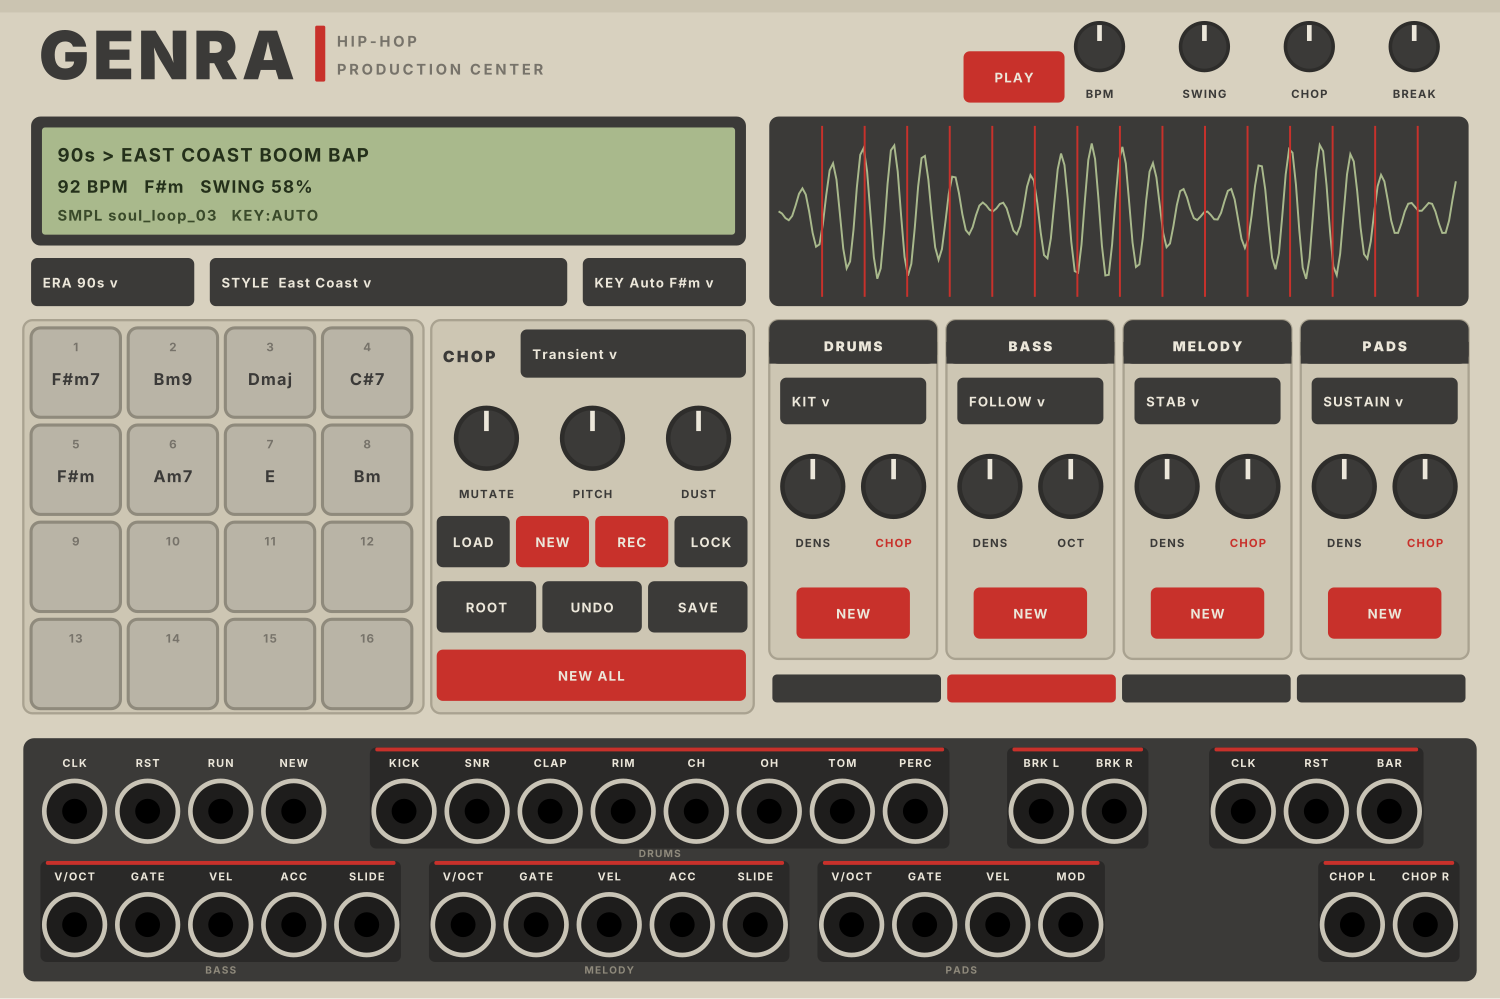
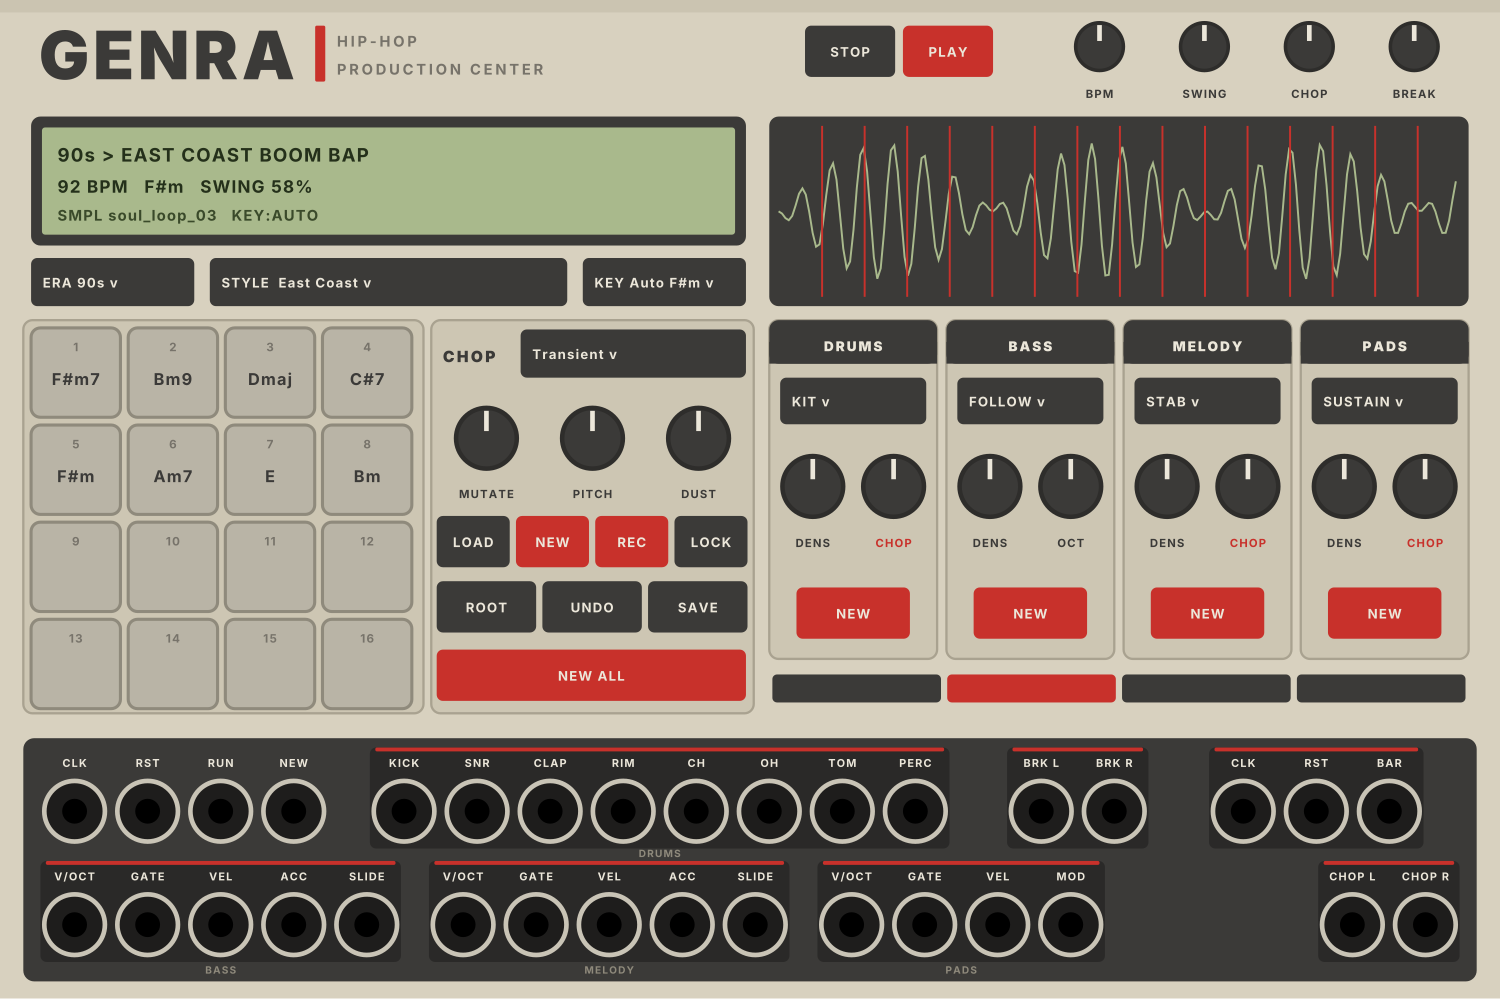
GENRA HipHop 2.0.2: STOP-Taster, Bass mit Dichte-Schicht, Laden per Klick
Transport: STOP hält an und springt auf Takt 1 (zweimal schneidet auch
Chops und Break ab), PLAY startet bei Takt 1. Bass: mindestens zwei
Grundtöne pro Takt, DENS bringt Vorschläge, Oktavsprünge, Läufe und
Ghosts, Grundtöne klingen bis zum nächsten. Leeres Display: Klick lädt.

Claude-Session: https://claude.ai/code/session_01ETAzGwxdvUU37G8dEZptyf

Changed region(s): [[0.5213, 0.0, 0.736, 0.1241]]

diff --git a/genra-hiphop/src/HipHop.cpp b/genra-hiphop/src/HipHop.cpp
@@ -256,7 +256,8 @@ struct GenraHipHop : Module {
 
 	// ---- from the panel (UI thread) to the audio thread
 	std::atomic<int> reqNew{0};       // bit per track, bit 5: all
-	std::atomic<bool> reqUndo{false}, reqStyle{false}, reqRender{false};
+	std::atomic<bool> reqUndo{false}, reqStyle{false}, reqRender{false}, reqKill{false};
+	bool wasRunning = false;
 	std::atomic<int> padQ[32];
 	std::atomic<int> padQw{0};
 	int padQr = 0;
@@ -608,13 +609,23 @@ struct GenraHipHop : Module {
 			else
 				phase = 1.f;
 		}
-		if (!run && step.load() >= 0 && !inputs[CLK_INPUT].isConnected()) {
-			// stopped: let the gates go
+		if (wasRunning && !run) {
+			// stopped: the gates go, back to bar 1 (PLAY starts there)
 			bassGate.left = melGate.left = 0;
 			for (Gate& g : padGate)
 				g.left = 0;
+			for (Gate& g : drumGate)
+				g.left = 0;
 			nPend = 0;
 			step = -1;
+			phase = 1.f;
+		}
+		wasRunning = run;
+		if (reqKill.exchange(false)) {
+			for (SVoice& v : cv)
+				v.release(sr);
+			for (SVoice& v : bv)
+				v.release(sr);
 		}
 		if (tickNow) {
 			int s = (step.load() + 1) % LEN;
@@ -1065,6 +1076,7 @@ struct HHButton : widget::OpaqueWidget {
 	NVGcolor col = C_GRAPH;
 	std::function<void()> act, release;
 	std::function<bool()> lit;
+	int symbol = 0; // 1 play triangle, 2 stop square (before the text)
 	bool down = false;
 	void draw(const DrawArgs& args) override {
 		bool on = lit && lit();
@@ -1082,7 +1094,27 @@ struct HHButton : widget::OpaqueWidget {
 			nvgStrokeWidth(args.vg, 1.6f);
 			nvgStroke(args.vg);
 		}
-		label(args.vg, uiBold(), box.size.x / 2, box.size.y / 2 + 0.5f, text, 9.5f, C_CREAM);
+		float tx = box.size.x / 2;
+		if (symbol) {
+			nvgFontFaceId(args.vg, uiBold()->handle);
+			nvgFontSize(args.vg, 9.5f);
+			nvgTextLetterSpacing(args.vg, 0.4f);
+			float tw = nvgTextBounds(args.vg, 0, 0, text.c_str(), NULL, NULL);
+			float x0 = (box.size.x - tw - 9.f) / 2, y = box.size.y / 2;
+			nvgBeginPath(args.vg);
+			if (symbol == 1) {
+				nvgMoveTo(args.vg, x0, y - 3.2f);
+				nvgLineTo(args.vg, x0 + 5.5f, y);
+				nvgLineTo(args.vg, x0, y + 3.2f);
+				nvgClosePath(args.vg);
+			}
+			else
+				nvgRect(args.vg, x0, y - 2.7f, 5.4f, 5.4f);
+			nvgFillColor(args.vg, C_CREAM);
+			nvgFill(args.vg);
+			tx = x0 + 9.f + tw / 2;
+		}
+		label(args.vg, uiBold(), tx, box.size.y / 2 + 0.5f, text, 9.5f, C_CREAM);
 	}
 	void onButton(const ButtonEvent& e) override {
 		if (e.button == GLFW_MOUSE_BUTTON_LEFT && e.action == GLFW_PRESS) {
@@ -1286,14 +1318,21 @@ struct HHLcd : widget::Widget {
 	}
 };
 
-struct HHWave : widget::Widget {
+struct HHWave : widget::OpaqueWidget {
 	GenraHipHop* module = nullptr;
+	void onButton(const ButtonEvent& e) override {
+		if (module && e.button == GLFW_MOUSE_BUTTON_LEFT && e.action == GLFW_PRESS && !module->uiChops.load() &&
+		    !module->loader->busy) {
+			module->loadSample();
+			e.consume(this);
+		}
+	}
 	void draw(const DrawArgs& args) override {
 		NVGcontext* vg = args.vg;
 		const ChopSet* c = module ? module->uiChops.load() : nullptr;
 		float w = box.size.x, h = box.size.y;
 		if (!c || c->peaks.empty()) {
-			label(vg, uiBold(), w / 2, h / 2, module && module->loader->busy ? "ANALYSING..." : "LOAD A WAV (LOAD BUTTON)", 9.f,
+			label(vg, uiBold(), w / 2, h / 2, module && module->loader->busy ? "ANALYSING..." : "CLICK HERE OR PRESS LOAD", 9.f,
 			      nvgRGB(0x8f, 0x8a, 0x7c));
 			return;
 		}
@@ -1341,6 +1380,7 @@ struct HHBars : widget::Widget {
 };
 
 struct GenraHipHopWidget : ModuleWidget {
+	float lastStop = -10.f;
 	std::string note; // last export message
 	float noteTime = 0.f;
 
@@ -1364,10 +1404,21 @@ struct GenraHipHopWidget : ModuleWidget {
 		setPanel(createPanel(asset::plugin(pluginInstance, "res/HipHop.svg")));
 		using M = GenraHipHop;
 		// header
+		HHButton* stop = button(hhl::STOP, "STOP", C_GRAPH, [=]() {
+			if (!m)
+				return;
+			float now = (float) system::getTime();
+			if (!m->running && now - lastStop < 0.5f)
+				m->reqKill = true; // twice: cut the chops and the break too
+			m->running = false;
+			lastStop = now;
+		});
+		stop->symbol = 2;
 		HHButton* play = button(hhl::PLAY, "PLAY", C_RED, [=]() {
 			if (m)
-				m->running = !m->running;
+				m->running = true;
 		});
+		play->symbol = 1;
 		play->lit = [=]() { return m && m->running; };
 		addParam(createParamCentered<HHKnobSmall>(Vec(hhl::BPM[0], hhl::BPM[1]), m, M::BPM_PARAM));
 		addParam(createParamCentered<HHKnobSmall>(Vec(hhl::SWING[0], hhl::SWING[1]), m, M::SWING_PARAM));

diff --git a/genra-hiphop/src/hh/Core.cpp b/genra-hiphop/src/hh/Core.cpp
@@ -288,6 +288,90 @@ static int bassNote(int pc) {
 	return n;
 }
 
+/** What DENS brings to the bass, and how long its notes ring.
+ *  - at least two notes per bar (none of the bars stays almost empty)
+ *  - extras with graded priority: a push before the snare (0.3-0.45), octave jumps (0.5-0.65),
+ *    walk-ups into the next chord (0.6-0.75), 16th ghosts (0.8-0.95)
+ *  - the core notes ring up to the next core note (Premier-style East Coast stays short) */
+static void bassLayer(Pattern& p, const Style& st, const Settings& set, const SampleInfo& si, const PadSet* pads,
+                      Rng& rng, int mode, int scale) {
+	auto empty = [&](int s) { return s >= 0 && s < LEN && p.bass[s].pitch < 0; };
+	auto rootAt = [&](int s) {
+		Chord c = chordAt(p, si, pads, s);
+		if (!c.valid())
+			c = p.bar[s / STEPS];
+		return bassNote(c.root);
+	};
+	// at least two core notes per bar
+	for (int b = 0; b < BARS; b++) {
+		int core = 0;
+		for (int i = 0; i < STEPS; i++)
+			core += p.bass[b * STEPS + i].pitch >= 0 && p.bass[b * STEPS + i].prio == 0.f;
+		static const int FILL[] = {8, 10, 6, 12};
+		for (int k = 0; k < 4 && core < 2; k++) {
+			int s = b * STEPS + FILL[k];
+			if (empty(s)) {
+				addNote(p.bass, s, rootAt(s) + (rng.chance(0.3f) ? 7 : 0), 1.f, 0.8f, 0.f);
+				core++;
+			}
+		}
+	}
+	// the extras, the same in every bar (a groove), bar 4 gets its own walk-up
+	int push = rng.chance(0.5f) ? 7 : 11; // the 16th before a snare / the "a" of 3
+	float pushPrio = rng.range(0.3f, 0.45f);
+	int jump = 1 + rng.below(3);
+	float jumpPrio = rng.range(0.5f, 0.65f);
+	for (int b = 0; b < BARS; b++) {
+		int s0 = b * STEPS;
+		if (empty(s0 + push))
+			addNote(p.bass, s0 + push, rootAt(s0 + push) + (rng.chance(0.4f) ? 7 : 0), 0.9f, 0.7f, pushPrio);
+		if (p.bass[s0].pitch >= 0 && empty(s0 + jump * 2)) {
+			addNote(p.bass, s0 + jump * 2, p.bass[s0].pitch + 12, 0.8f, 0.65f, jumpPrio);
+			if (mode == BM_808)
+				p.bass[s0 + jump * 2].slide = rng.chance(0.5f);
+		}
+		// walk-up into the next bar's chord (bars 2 and 4, with DENS)
+		if (b % 2 == 1) {
+			int target = rootAt((s0 + STEPS) % LEN);
+			for (int k = 0; k < 3; k++) {
+				int s = s0 + 13 + k;
+				if (!empty(s))
+					continue;
+				int n = snapScale(target - (3 - k) * 2, scale, set.key.root);
+				addNote(p.bass, s, n, 0.8f, 0.6f, 0.6f + 0.05f * k);
+			}
+		}
+		// 16th ghosts on the empty 8ths
+		for (int i = 2; i < STEPS; i += 2) {
+			int s = s0 + i;
+			if (empty(s) && empty(s - 1) && rng.chance(0.5f)) {
+				int prev = s - 1;
+				while (prev > s0 && p.bass[prev].pitch < 0)
+					prev--;
+				int n = p.bass[prev].pitch >= 0 ? p.bass[prev].pitch : rootAt(s);
+				addNote(p.bass, s, n + (rng.chance(0.3f) ? 12 : 0), 0.6f, 0.5f, rng.range(0.8f, 0.95f));
+			}
+		}
+	}
+	// how long the core notes ring: up to the next core note
+	bool shortStyle = st.bass == BM_ROOTS && st.chopLoop < 0.4f; // East Coast: short and punchy
+	for (int s = 0; s < LEN; s++) {
+		Note& n = p.bass[s];
+		if (n.pitch < 0 || n.prio > 0.f)
+			continue;
+		int nx = s + 1;
+		while (nx < s + STEPS && (p.bass[nx % LEN].pitch < 0 || p.bass[nx % LEN].prio > 0.f))
+			nx++;
+		float gap = (float) (nx - s);
+		if (mode == BM_808)
+			n.len = std::max(n.len, std::min(gap, 8.f) - 0.2f);
+		else if (shortStyle)
+			n.len = std::min(gap, 2.f) - 0.15f;
+		else
+			n.len = std::min(gap, 6.f) - 0.25f;
+	}
+}
+
 static void genBass(Pattern& p, const Style& st, const Settings& set, const SampleInfo& si, const PadSet* pads,
                     Rng& rng) {
 	for (int s = 0; s < LEN; s++)
@@ -401,6 +485,8 @@ static void genBass(Pattern& p, const Style& st, const Settings& set, const Samp
 					p.bass[s].slide = true;
 			}
 	}
+	if (mode != BM_WALK)
+		bassLayer(p, st, set, si, pads, rng, mode, scale);
 }
 
 // ---------------------------------------------------------------- melody

diff --git a/genra-hiphop/tools/hiphop_panel.py b/genra-hiphop/tools/hiphop_panel.py
@@ -89,7 +89,8 @@ rect(bx, 3.3, 1.3, 7.2, RED, 0.2)
 text(bx + 2.8, 6.0, "HIP-HOP", 1.9, INK_DIM, 700, "start", 0.35)
 text(bx + 2.8, 9.6, "PRODUCTION CENTER", 1.9, INK_DIM, 700, "start", 0.35)
 # PLAY and the four header knobs
-comp("PLAY", 124.0, 6.6, 13.0, 6.6)
+comp("STOP", 103.6, 3.3, 11.6, 6.6)
+comp("PLAY", 116.2, 3.3, 11.6, 6.6)
 for name, x, label in (("BPM", 141.5, "BPM"), ("SWING", 155.0, "SWING"), ("VOL", 168.5, "CHOP"), ("BRK", 182.0, "BREAK")):
     comp(name, x, 6.0)
     text(x, 12.6, label, 1.45, INK, 700)
@@ -253,7 +254,7 @@ print(f"res/HipHop.svg: {HP} HP, {len(comps)} parts")
 if "--preview" in sys.argv:
     out.clear()
     LABELS = {"LOAD": "LOAD", "NEW": "NEW", "REC": "REC", "LOCK": "LOCK", "ROOT": "ROOT", "UNDO": "UNDO", "SAVE": "SAVE",
-              "NEWALL": "NEW ALL", "PLAY": "PLAY"}
+              "NEWALL": "NEW ALL", "PLAY": "PLAY", "STOP": "STOP"}
     CHORDS = ["F#m7", "Bm9", "Dmaj", "C#7", "F#m", "Am7", "E", "Bm"]
     for k, v in comps.items():
         if len(v) == 2:

diff --git a/genra-hiphop/src/HipHopLayout.hpp b/genra-hiphop/src/HipHopLayout.hpp
@@ -2,7 +2,8 @@
 #pragma once
 namespace hhl {
 static const float W = 570.000f;
-static const float PLAY[4] = {366.142f, 19.488f, 38.386f, 19.488f};
+static const float STOP[4] = {305.906f, 9.744f, 34.252f, 19.488f};
+static const float PLAY[4] = {343.110f, 9.744f, 34.252f, 19.488f};
 static const float BPM[2] = {417.815f, 17.717f};
 static const float SWING[2] = {457.677f, 17.717f};
 static const float VOL[2] = {497.539f, 17.717f};

diff --git a/genra-hiphop/README.md b/genra-hiphop/README.md
@@ -2,7 +2,7 @@
 
 Ein Hip-Hop-Beat-Generator im Look einer alten Production Center (beiges Gehäuse, graue Pads, Akai-Rot, grünes LCD).
 Eigenes Plugin (**GENRA HipHop**, Slug `GenraHipHop`) unter der Marke **Genra**, liegt im Repo von GENRA Test im
-Unterordner `genra-hiphop/`. Stand 2.0.1: Hauptordner fürs Laden, Drag & Drop, Lade-Schritte im Display und in `log.txt`.
+Unterordner `genra-hiphop/`. Stand 2.0.2: Transport mit STOP, Bass mit echter Dichte-Schicht, Laden per Klick aufs leere Display.
 
 ![Panel](docs/hiphop.png)
 
@@ -14,7 +14,8 @@ Rack-Benutzerordner legen (Rack › Help › Open user folder) und Rack neu star
 
 ## Bedienung
 
-**Kopf:** PLAY startet und stoppt (ohne Kabel im RUN-Eingang). **BPM**, **SWING** (50 % gerade bis 75 %), **CHOP**
+**Kopf:** STOP hält an und springt auf Takt 1 (zweimal STOP schneidet auch Chops und Break ab), PLAY startet bei
+Takt 1 (ohne Kabel im RUN-Eingang). **BPM**, **SWING** (50 % gerade bis 75 %), **CHOP**
 (Lautstärke der Chops) und **BREAK** (Lautstärke des Breaks).
 
 **Display:** Jahrzehnt und Stil, Tempo, Tonart (ein `*` heisst: von Hand gesetzt), Swing, Takt; darunter das Sample
@@ -56,6 +57,9 @@ Tonhöhe). **Klick** spielt das Pad. **Rechtsklick:** Lock (bleibt bei NEW und M
   auslassen, umdrehen). Einen Break lädst du per Rechtsklick › Load break: die Hits werden nach Helligkeit auf Kick,
   Snare, Hats … verteilt und von den Drum-Hits gespielt (Ausgang BRK L/R).
 - **BASS:** FOLLOW (Stil, folgt den Akkorden der Chops), ROOT+5, WALK, 808. **OCT** statt CHOP (kein MIDI-Chop).
+  DENS ganz links: nur die Grundtöne (mindestens zwei pro Takt); nach rechts kommen Vorschläge vor der Snare,
+  Oktavsprünge, Läufe in den nächsten Akkord und 16tel-Ghosts dazu. Die Grundtöne klingen bis kurz vor den nächsten
+  (East Coast bleibt kurz und knackig).
 - **MELODY:** STAB, LEAD, ARP, RIFF; **CHOP** = MIDI-Chop. Wo ein Chop einsetzt, tritt die Melodie zurück.
 - **PADS:** SUSTAIN, STAB, SWELL (MOD-Ausgang steigt an); **CHOP** = MIDI-Chop.
 
@@ -68,6 +72,9 @@ auf Kanal 10 mit GM-Noten, Bass, Melodie, Pads, Chop mit Pad 1 = C1, Pitch als P
 ohne Dateifenster in den MIDI-Ordner aller GENRA-Module), MIDI-Eingang, Clock-Auflösung.
 
 ## Noch nicht drin (Merkliste)
+
+- **Wellenform-Display:** Schnitte verschieben (Einrasten am Nulldurchgang), setzen (Doppelklick), entfernen
+  (Rechtsklick auf die Linie), Klick spielt den Chop, Rechtsklick sonst = anderes Sample.
 
 - **ABLAUF**-Verbindung (Patterns speichern, Hip-Hop-Abschnitte INTRO, VERSE, HOOK, BRIDGE, BREAK, OUTRO,
   MAKE SONG). Braucht eine Änderung an ABLAUF im GENRA-Repo.
